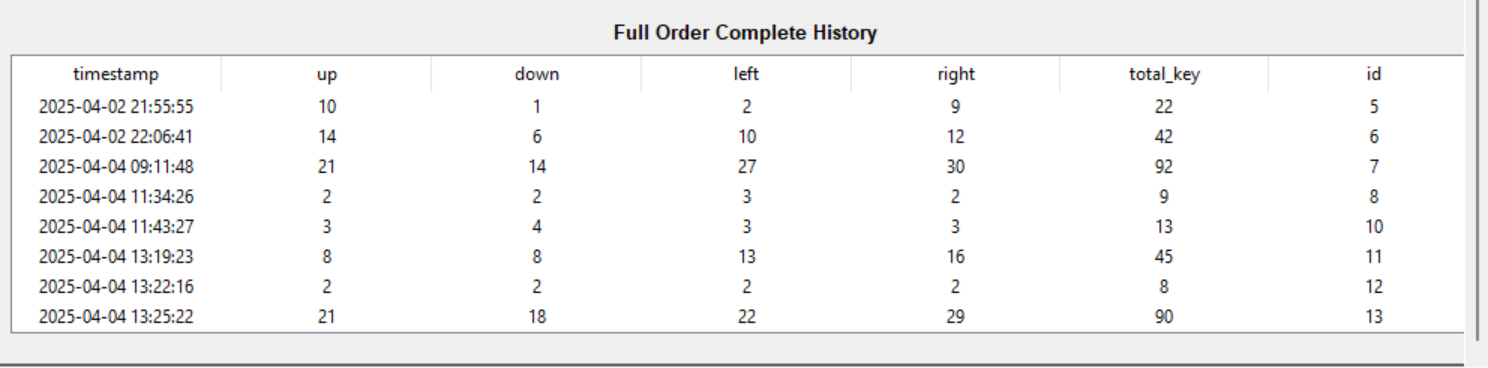
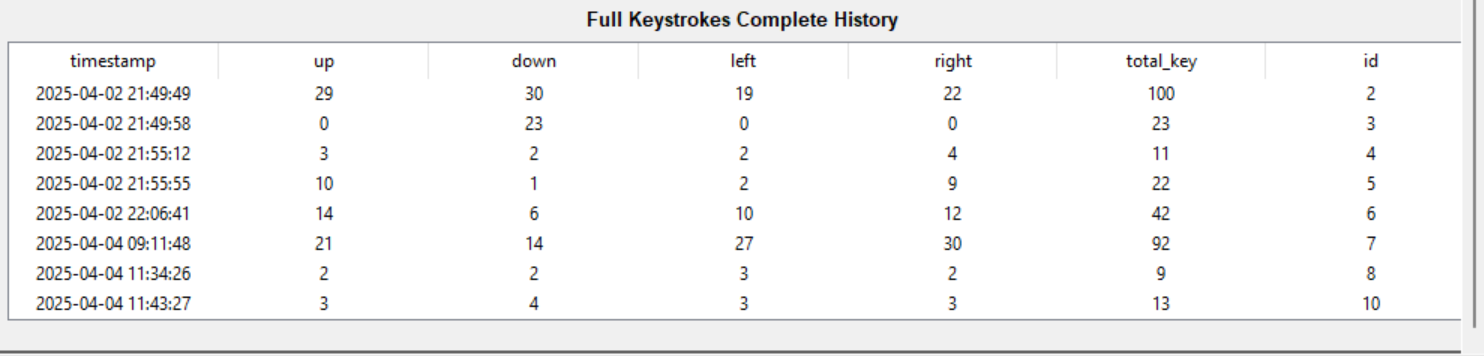
add description

diff --git a/file_game/cooking_stat.py b/file_game/cooking_stat.py
@@ -298,7 +298,7 @@ class StatsWindow:
         table_container = ttk.Frame(scrollable_frame)
         table_container.pack(fill=tk.BOTH, expand=True, pady=(10, 20), padx=10)
 
-        ttk.Label(table_container, text="Full Order Complete History", font=('Helvetica', 10, 'bold')).pack(
+        ttk.Label(table_container, text="Full Keystrokes Complete History", font=('Helvetica', 10, 'bold')).pack(
             pady=(10, 5))
 
         table_frame = ttk.Frame(table_container)

diff --git a/DESCRIPTION.md b/DESCRIPTION.md
@@ -1,4 +1,4 @@
-# Description about the project
+# Description about the Project
 
 ## ⏳ Project Overview
 Apocalypse Cooker is a cooking game with an apocalypse theme, where the chef opens the restaurant to send food to the 
@@ -12,22 +12,47 @@ The game includes the following features:
 - **Cooking Process**: Players can follow a cooking process to create dishes, cutting, and cooking.
 - **Zombie Encounters**: Players must avoid zombies that burst into the restaurant while cooking.
 
+## Algorithms Involved
+- ### Order Generation Algorithm (Queue System)
+Randomly generates a customer's menu with different ingredients and complexity such as chicken fried, sandwich or just fried egg.
+- ### Ingredients Matching Algorithm
+Checks if the player has selected the correct ingredients for a recipe
+- ### Timer Algorithm
+Tracks how long an ingredient or dish is being cooked and determines if it is perfectly cooked, uncooked, or burnt
+
 
 ## 🎮 About the Gameplay
-- Ingredients are contained in fridge. Press e to open the fridge and add ingredients to the cooking pan by pressing the 
-  enter key
-- To drop item, you can press shift on both side
+- Ingredients are contained in fridge. Press **E** to open the fridge and add ingredients to the cooking pan by pressing the 
+  **Enter key**.
+- To drop item, you can press **Shift** on either of both side on your keyboard.
 - Wait for the food to be cooked. The cooking time will show on the green bar above the pan.
-- Once it's done, you can take the food out of the pan and put it on the plate by pressing enter key
+- Once it's done, you can take the food out of the pan and put it on the plate by pressing **Enter key**
 - You can also put the food back in the pan, in the fridge or throw it away.
-- The food will be served on the blue pad
-- You can add more ingredients in the fridge by pressing the enter key at the red button and take the paper bag to the fridge.
-- When bring the paper bag to the fridge, you can add the ingredients in the bag to the fridge by pressing the e key
+- The food will be served on the blue pad.
+- You can add more ingredients in the fridge by pressing the **Enter key** at the red button and take the paper bag to the fridge.
+- When bring the paper bag to the fridge, you can add the ingredients in the bag to the fridge by pressing the **E** key
 - The Zombie will chase the player around, you must try to avoid them as much as possible.
 
 ## 🧩 UML
 The UML diagram below illustrates the main classes and their relationships in the game. 
 
 ![UML Diagram](UML.png)
+
+## Graph Representation
+| Feature Name        | Graph Objective                                                | Graph Type   | X-axis                                     | Y-axis            |
+|---------------------|----------------------------------------------------------------|--------------|--------------------------------------------|-------------------|
+| Total time per dish | Compare cooking efficiency across dishes                     | Boxplot      | Dish Types (sandwich, chicken fried, etc.) | Average Time      |
+| Ingredients used    | Show the proportional distribution of ingredients across all dishes | Pie Chart    | Ingredient Names                           | Percentage         |
+| Mistakes per order  | Measures how accurately players complete orders               | Bar Graph    | The type of accident the player made       | Mistake Count      |
+| Keystrokes per dish | Analyze input efficiency distribution                         | Line Chart   | Keystroke bins                             | Frequency          |
+| Orders per session  | Measure engagement vs. session duration                       | Scatter Plot | Session duration (min)                     | Orders Completed   |
+
+
+## 📦 GitHub Link
+### → [Link](https://github.com/Yatichapat/CookingGame.git)
+
+## 🎬 YouTube Link 
+### → [LINK](https://youtu.be/HM9LTVeIe7g)
+
 
 
